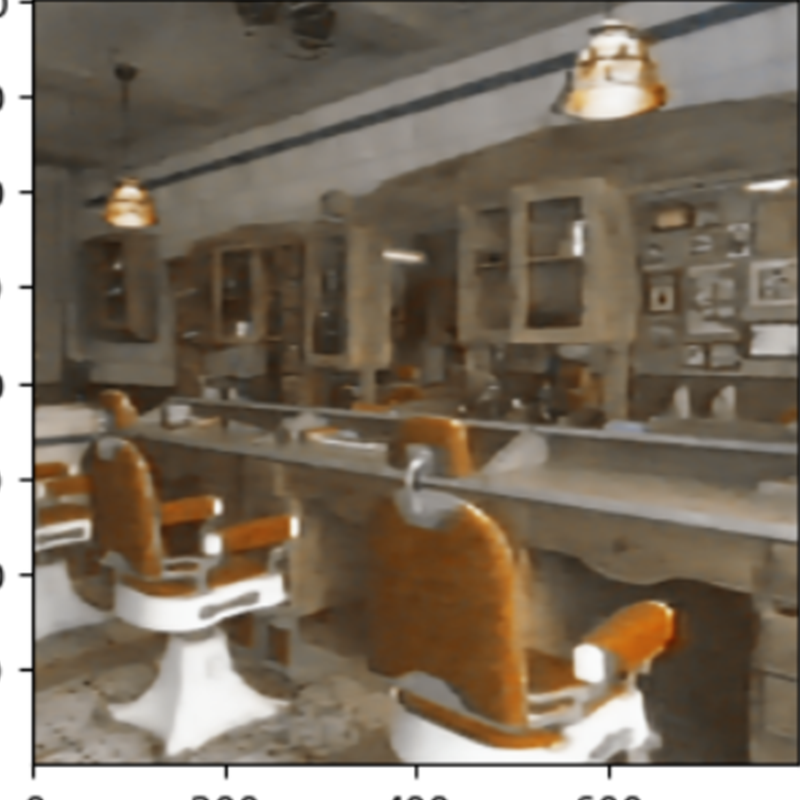
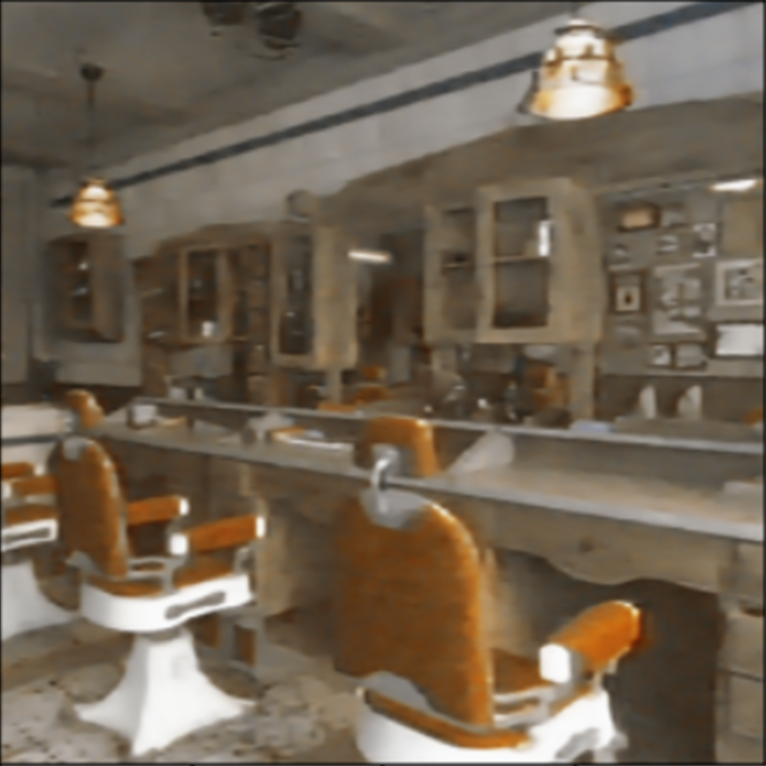
Adding attnresunet result

diff --git a/index.html b/index.html
@@ -486,7 +486,7 @@ tensor = tensor.reshape(384, 800, 800)</code></pre>
       <div class="container">
         <div class="section-label">06 · Results</div>
         <h2 class="section-title">Model Comparison</h2>
-        <p class="section-intro">Compare the four architectures across PSNR and SSIM on our held-out test scenes. U-Net values are the three-scene averages from the supplied predictions; MS-SSIM and LPIPS remain unavailable.</p>
+        <p class="section-intro">Compare the four architectures across PSNR and SSIM on our held-out test scenes. U-Net and Attention-Residual U-Net values are the three-scene averages from the supplied predictions; MS-SSIM and LPIPS remain unavailable.</p>
 
         <!-- Interactive Chart -->
         <div class="chart-controls">
@@ -572,15 +572,15 @@ tensor = tensor.reshape(384, 800, 800)</code></pre>
 
           <!-- Direct 3-Scene Gallery -->
           <div style="margin-top:2.5rem; padding-top:2rem; border-top:1px solid var(--border);">
-            <h4>🖼 All Held-out Test Scenes (Ground Truth vs. Naïve Sum vs. CNN vs. U-Net)</h4>
-            <p style="color:var(--text-muted); font-size:0.88rem;">Side-by-side view of all three test scenes evaluated across Ground Truth, Naïve Sum, CNN, and U-Net reconstruction.</p>
+            <h4>🖼 All Held-out Test Scenes (Ground Truth vs. Naïve Sum vs. CNN vs. U-Net vs. Attn-Res)</h4>
+            <p style="color:var(--text-muted); font-size:0.88rem;">Side-by-side view of all three test scenes evaluated across Ground Truth, Naïve Sum, CNN, U-Net, and Attention-Residual U-Net reconstruction.</p>
             
             <div class="scene-gallery-grid">
               <!-- Card 1: Attic -->
               <div class="scene-gallery-card">
                 <div class="scene-gallery-header">
                   <span class="scene-gallery-title">Scene 1: attic</span>
-                  <span class="scene-gallery-badge">CNN: 28.41 · U-Net: 29.82 dB</span>
+                  <span class="scene-gallery-badge">Attn-Res: 31.04 dB | 0.8370</span>
                 </div>
                 <div class="scene-gallery-body">
                   <div class="scene-pair" style="grid-template-columns: 1fr 1fr;">
@@ -600,6 +600,10 @@ tensor = tensor.reshape(384, 800, 800)</code></pre>
                       <img src="assets/results/attic_unet.png" alt="attic U-Net prediction" class="scene-thumb-img compare-img" />
                       <span class="scene-thumb-label" style="color:var(--accent3);">U-Net (29.82 dB)</span>
                     </div>
+                    <div class="scene-thumb-wrap">
+                      <img src="assets/results/attic_attnres.png" alt="attic Attention-Residual U-Net prediction" class="scene-thumb-img compare-img" />
+                      <span class="scene-thumb-label" style="color:var(--accent2);">Attn-Res (31.04 dB)</span>
+                    </div>
                   </div>
                 </div>
               </div>
@@ -608,7 +612,7 @@ tensor = tensor.reshape(384, 800, 800)</code></pre>
               <div class="scene-gallery-card">
                 <div class="scene-gallery-header">
                   <span class="scene-gallery-title">Scene 2: bachelors-quarters</span>
-                  <span class="scene-gallery-badge">CNN: 27.48 · U-Net: 28.67 dB</span>
+                  <span class="scene-gallery-badge">Attn-Res: 31.80 dB | 0.8700</span>
                 </div>
                 <div class="scene-gallery-body">
                   <div class="scene-pair" style="grid-template-columns: 1fr 1fr;">
@@ -628,6 +632,10 @@ tensor = tensor.reshape(384, 800, 800)</code></pre>
                       <img src="assets/results/bachelors_unet.png" alt="bachelors U-Net prediction" class="scene-thumb-img compare-img" />
                       <span class="scene-thumb-label" style="color:var(--accent3);">U-Net (28.67 dB)</span>
                     </div>
+                    <div class="scene-thumb-wrap">
+                      <img src="assets/results/bachelors_attnres.png" alt="bachelors Attention-Residual U-Net prediction" class="scene-thumb-img compare-img" />
+                      <span class="scene-thumb-label" style="color:var(--accent2);">Attn-Res (31.80 dB)</span>
+                    </div>
                   </div>
                 </div>
               </div>
@@ -636,7 +644,7 @@ tensor = tensor.reshape(384, 800, 800)</code></pre>
               <div class="scene-gallery-card">
                 <div class="scene-gallery-header">
                   <span class="scene-gallery-title">Scene 3: barbershop</span>
-                  <span class="scene-gallery-badge">CNN: 23.66 · U-Net: 23.99 dB</span>
+                  <span class="scene-gallery-badge">Attn-Res: 26.18 dB | 0.8150</span>
                 </div>
                 <div class="scene-gallery-body">
                   <div class="scene-pair" style="grid-template-columns: 1fr 1fr;">
@@ -656,13 +664,17 @@ tensor = tensor.reshape(384, 800, 800)</code></pre>
                       <img src="assets/results/barbershop_unet.png" alt="barbershop U-Net prediction" class="scene-thumb-img compare-img" />
                       <span class="scene-thumb-label" style="color:var(--accent3);">U-Net (23.99 dB)</span>
                     </div>
+                    <div class="scene-thumb-wrap">
+                      <img src="assets/results/barbershop_attnres.png" alt="barbershop Attention-Residual U-Net prediction" class="scene-thumb-img compare-img" />
+                      <span class="scene-thumb-label" style="color:var(--accent2);">Attn-Res (26.18 dB)</span>
+                    </div>
                   </div>
                 </div>
               </div>
             </div>
           </div>
 
-          <p class="placeholder-note" style="color:var(--accent3); margin-top:1.5rem;">✔ Visual results loaded for Ground Truth, Naïve Sum, CNN, and U-Net. Attn-Res U-Net checkpoint outputs are still pending.</p>
+          <p class="placeholder-note" style="color:var(--accent3); margin-top:1.5rem;">✔ Visual results loaded for Ground Truth, Naïve Sum, CNN, U-Net, and Attention-Residual U-Net.</p>
         </div>
 
         <!-- Results Table -->
@@ -698,8 +710,8 @@ tensor = tensor.reshape(384, 800, 800)</code></pre>
               </tr>
               <tr class="best-row">
                 <td>Attn-Res U-Net ⭐</td>
-                <td>—</td>
-                <td>—</td>
+                <td><strong style="color:var(--accent3);">29.673</strong></td>
+                <td><strong style="color:var(--accent3);">0.8407</strong></td>
                 <td><strong>Proposed Model (Best)</strong></td>
               </tr>
             </tbody>

diff --git a/js/main.js b/js/main.js
@@ -63,14 +63,14 @@ const models = [
 // ─── Experiment Results (three-scene test averages) ───
 const data = {
   psnr: {
-    values:  [20.955, 26.517, 27.493, 29.10],
+    values:  [20.955, 26.517, 27.493, 29.673],
     label:   'PSNR (dB)',
     color:   'rgba(0, 212, 255, 0.85)',
     border:  'rgba(0, 212, 255, 1)',
     yLabel:  'PSNR (dB)',
   },
   ssim: {
-    values:  [0.2924, 0.7607, 0.7863, 0.8400],
+    values:  [0.2924, 0.7607, 0.7863, 0.8407],
     label:   'SSIM',
     color:   'rgba(124, 58, 237, 0.85)',
     border:  'rgba(124, 58, 237, 1)',
@@ -153,13 +153,14 @@ const sceneDatabase = {
       naive: 'assets/results/attic_naivesum.png',
       cnn: 'assets/results/attic_cnn.png',
       unet: 'assets/results/attic_unet.png',
+      attnres: 'assets/results/attic_attnres.png',
     },
     metrics: {
       gt: { psnr: '∞', ssim: '1.0000' },
       naive: { psnr: '21.769', ssim: '0.3077' },
       cnn: { psnr: '28.41', ssim: '0.7470' },
       unet: { psnr: '29.82', ssim: '0.7940' },
-      attnres: { psnr: '—', ssim: '—' },
+      attnres: { psnr: '31.04', ssim: '0.8370' },
     }
   },
   bachelors: {
@@ -169,13 +170,14 @@ const sceneDatabase = {
       naive: 'assets/results/bachelors_naivesum.png',
       cnn: 'assets/results/bachelors_cnn.png',
       unet: 'assets/results/bachelors_unet.png',
+      attnres: 'assets/results/bachelors_attnres.png',
     },
     metrics: {
       gt: { psnr: '∞', ssim: '1.0000' },
       naive: { psnr: '22.152', ssim: '0.2611' },
       cnn: { psnr: '27.48', ssim: '0.8110' },
       unet: { psnr: '28.67', ssim: '0.8310' },
-      attnres: { psnr: '—', ssim: '—' },
+      attnres: { psnr: '31.80', ssim: '0.8700' },
     }
   },
   barbershop: {
@@ -185,13 +187,14 @@ const sceneDatabase = {
       naive: 'assets/results/barbershop_naivesum.png',
       cnn: 'assets/results/barbershop_cnn.png',
       unet: 'assets/results/barbershop_unet.png',
+      attnres: 'assets/results/barbershop_attnres.png',
     },
     metrics: {
       gt: { psnr: '∞', ssim: '1.0000' },
       naive: { psnr: '18.943', ssim: '0.3085' },
       cnn: { psnr: '23.66', ssim: '0.7240' },
       unet: { psnr: '23.99', ssim: '0.7340' },
-      attnres: { psnr: '—', ssim: '—' },
+      attnres: { psnr: '26.18', ssim: '0.8150' },
     }
   }
 };
